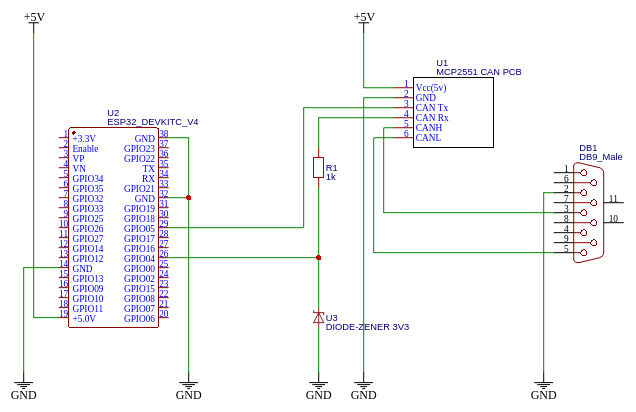
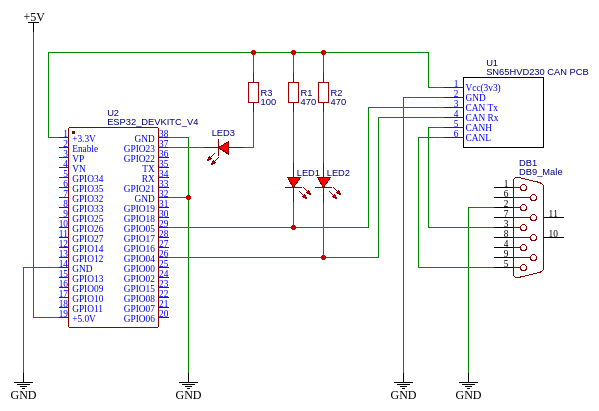
Use SN65HVD230 CAN controller, add info/transmission LEDs

diff --git a/arduino/src/main.cpp b/arduino/src/main.cpp
@@ -3,9 +3,12 @@
 
 #include "state_machine.h"
 #include "multimedia.h"
+#include "car_buttons.h"
 
 static void on_serial_receive();
 static void on_can_receive(int packetSize);
+
+static const int GREEN_LED = 23;
 
 void setup()
 {
@@ -31,6 +34,9 @@ void setup()
 
     delay(200);
     Serial.println("ready");
+
+    pinMode(GREEN_LED, OUTPUT);
+    digitalWrite(GREEN_LED, HIGH);
 }
 
 void loop()
@@ -38,21 +44,25 @@ void loop()
     state_t state = state_machine_get_state();
     if (state == STATE_PREV_TRACK)
     {
+        digitalWrite(GREEN_LED, LOW);
         multimedia_prev_track();
+        digitalWrite(GREEN_LED, HIGH);
     }
     if (state == STATE_NEXT_TRACK)
     {
+        digitalWrite(GREEN_LED, LOW);
         multimedia_next_track();
+        digitalWrite(GREEN_LED, HIGH);
     }
     if (state == STATE_RESTART)
     {
+        digitalWrite(GREEN_LED, LOW);
         ESP.restart();
     }
-
     state_machine_reset();
 }
 
-void on_serial_receive()
+static void on_serial_receive()
 {
     while (Serial.available())
     {
@@ -73,10 +83,7 @@ void on_serial_receive()
     }
 }
 
-const int CAN_PREV_TRACK[8] = {137, 1, 65, 162, 162, 162, 162, 162};
-const int CAN_NEXT_TRACK[8] = {137, 1, 1, 162, 162, 162, 162, 162};
-
-void on_can_receive(int packetSize)
+static void on_can_receive(int packetSize)
 {
     long id = CAN.packetId();
     int buff[packetSize];
@@ -95,15 +102,12 @@ void on_can_receive(int packetSize)
         return;
     }
 
-    if (id == 1423)
+    if (id == CAR_BUTTON_UP.packet_id && memcmp(CAR_BUTTON_UP.data, buff, sizeof(CAR_BUTTON_UP.data)) == 0)
     {
-        if (memcmp(CAN_PREV_TRACK, buff, sizeof(CAN_PREV_TRACK)) == 0)
-        {
-            state_machine_set_state_debouncing(STATE_PREV_TRACK);
-        }
-        if (memcmp(CAN_NEXT_TRACK, buff, sizeof(CAN_PREV_TRACK)) == 0)
-        {
-            state_machine_set_state_debouncing(STATE_NEXT_TRACK);
-        }
+        state_machine_set_state_debouncing(STATE_PREV_TRACK);
+    }
+    if (id == CAR_BUTTON_DOWN.packet_id && memcmp(CAR_BUTTON_DOWN.data, buff, sizeof(CAR_BUTTON_DOWN.data)) == 0)
+    {
+        state_machine_set_state_debouncing(STATE_NEXT_TRACK);
     }
 }

diff --git a/arduino/src/car_buttons.h b/arduino/src/car_buttons.h
@@ -1,0 +1,11 @@
+
+#pragma once
+
+struct car_button
+{
+    const long packet_id;
+    const int data[8];
+};
+
+const struct car_button CAR_BUTTON_UP = {.packet_id = 0x058F, .data = {0x89, 0x01, 0x41, 0xA2, 0xA2, 0xA2, 0xA2, 0xA2}};
+const struct car_button CAR_BUTTON_DOWN = {.packet_id = 0x058F, .data = {0x89, 0x01, 0x01, 0xA2, 0xA2, 0xA2, 0xA2, 0xA2}};
